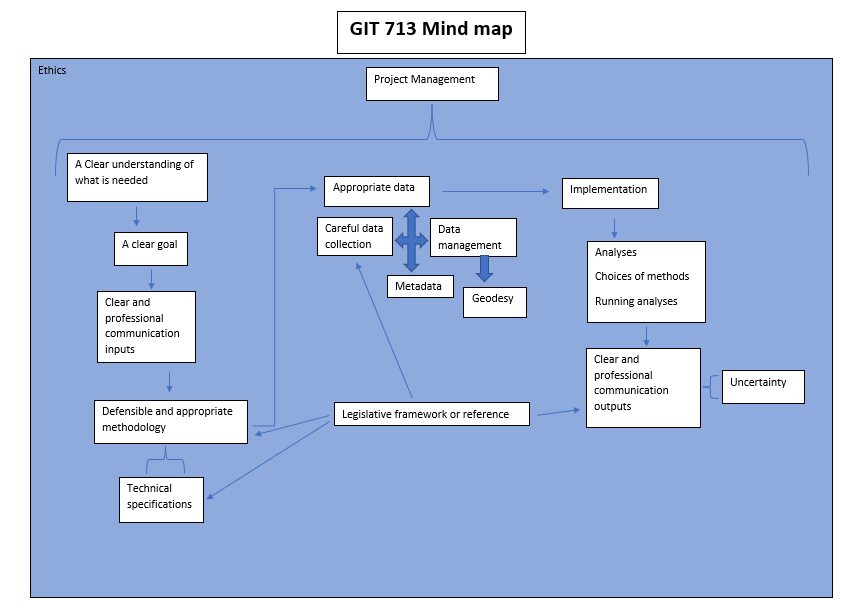
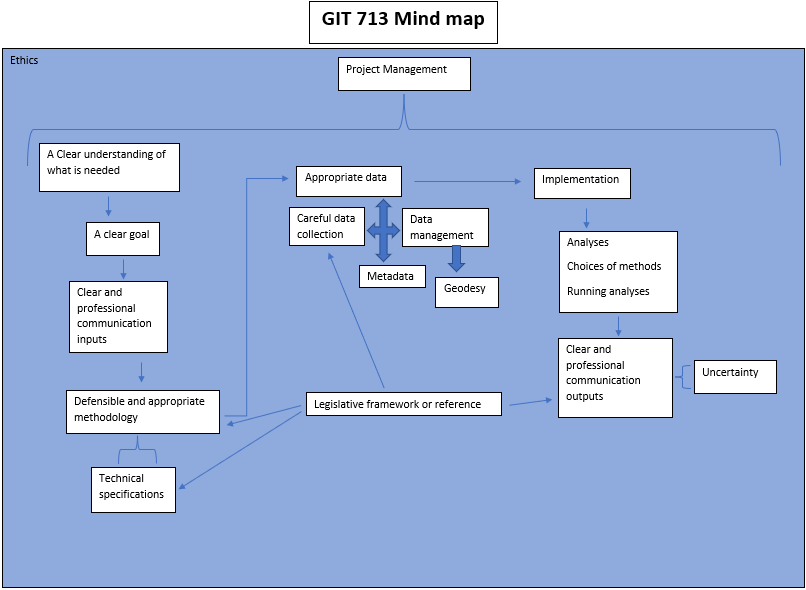
final?

Changed region(s): [[0.0, 0.0, 1.0, 1.0], [0.2792, 0.7627, 0.3102, 0.7932]]

diff --git a/index.md b/index.md
@@ -1,11 +1,11 @@
 <img style="float: left" src="assets/media/headshot.jpg" height="257" width="252">
-&nbsp;&nbsp;&nbsp;&nbsp;Sean Chater
+&nbsp;&nbsp;&nbsp;&nbsp;**Sean Chater**
 
-&nbsp;&nbsp;&nbsp;&nbsp;sean.chater@icloud.com
+&nbsp;&nbsp;&nbsp;&nbsp;**sean.chater@icloud.com**
 
-&nbsp;&nbsp;&nbsp;&nbsp;[LinkedIn](https://www.linkedin.com/in/sean-chater-789380237/?original_referer=)
+&nbsp;&nbsp;&nbsp;&nbsp;[**LinkedIn**](https://www.linkedin.com/in/sean-chater-789380237/?original_referer=)
 
-&nbsp;&nbsp;&nbsp;&nbsp;[YouTube](https://www.youtube.com/channel/UCQouRawVAXWux-RRiOixJeA)
+&nbsp;&nbsp;&nbsp;&nbsp;[**YouTube**](https://www.youtube.com/channel/UCQouRawVAXWux-RRiOixJeA)
 
 <br clear="left">
 
@@ -34,7 +34,6 @@ I have a strong work ethic which was kindled while running a business in 2018 th
 ## Projects
 Some projects that have been completed in the past 7 weeks can be found by folling the links below.
 
-- [Mind Map of GIT713](assets/pages/mindmap.md)
 - [Project Management](assets/pages/project_man.md)
 - [GIS Strategy and Implementation (ERD)](assets/pages/strat.md)
 - [Data Collection](assets/pages/data_collect.md)
@@ -42,4 +41,13 @@ Some projects that have been completed in the past 7 weeks can be found by folli
 - [Software Development Management](assets/pages/soft_dev.md)
 - [Miscellaneous](assets/pages/misc.md)
 
-## Reflection (on all pages maybe? or overall reflection)
+## In Closing 
+
+Figure 1 shows my internal idea of what the GIT 713 module consists of and how everything links together. It has been a very insightful journey and has definitely brought together and solidified many of the concepts I have been attempting to internalise over the past 2 years of GIT modules.
+
+| ![mindmap](../media/mindmap.png) |
+| <b>Figure 1: GIT 713 Mind Map</b> |
+
+Having implemented most of the steps in this mind map during the course of the module, I have a better idea of where the more 'conceptual' parts (in my mind) fit in, such as a legislative framework and how this can influence ethical decisions throughout a workflow. 
+
+
